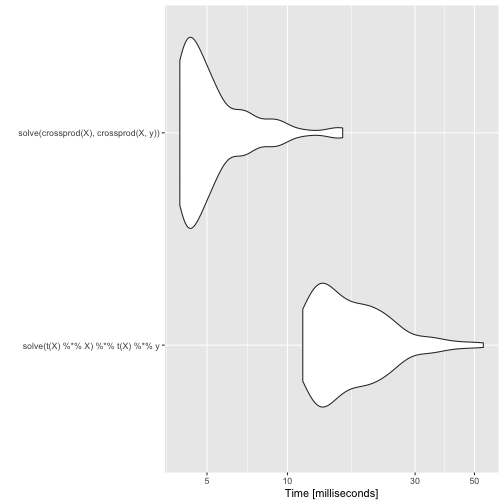
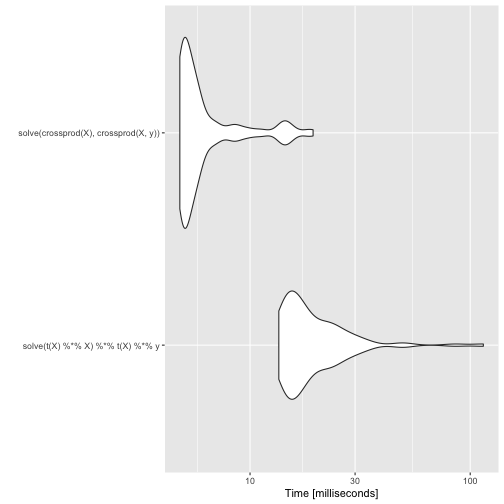
update

diff --git a/docs/lezioni/L04/LibroVsComputer.html b/docs/lezioni/L04/LibroVsComputer.html
@@ -22,12 +22,12 @@ class: center, middle, inverse, title-slide
 
 # Libro di testo vs computer
 
-* Nei libri di testo viene spesso presentata la soluzione ad un certo problema con una formula matematica. Ad esempio, si consideri la soluzione 
+Nei libri di testo viene spesso presentata la soluzione ad un certo problema con una formula matematica. Ad esempio, si consideri la soluzione 
 `$$\hat{\beta} = (X^\mathsf{T} X)^{-1}Xy$$`
 
-* Tuttavia la traduzione diretta di questo tipo di formule in codice non è sempre consigliabile perché ci sono molti aspetti problematici dei computer che semplicemente non sono rilevanti quando si scrivono le cose su carta
+Tuttavia la traduzione diretta di questo tipo di formule in codice non è sempre consigliabile perché ci sono molti aspetti problematici dei computer che semplicemente non sono rilevanti quando si scrivono le cose su carta
 
-* I potenziali problemi computazionali che possono emergere sono
+I potenziali problemi computazionali che possono emergere sono
 
 1. **Overflow** Quando i numeri diventano troppo grandi, non possono essere rappresentati su un computer e quindi spesso vengono prodotte NA
 
@@ -39,21 +39,20 @@ class: center, middle, inverse, title-slide
 
 # La stima di `\(\beta\)`
 
-* Si consideri la soluzione 
+Si consideri la soluzione 
 `$$\hat{\beta} = (X^\mathsf{T} X)^{-1}Xy$$`
 
-* Questa soluzione può essere tradotta in codice R come
-
+Questa soluzione può essere tradotta in codice R come
 
 ```r
 betahat &lt;- solve(t(X) %*% X) %*% t(X) %*% y
 ```
 
-* Tuttavia non è consigliabile calcolare il valore di `\(\hat{\beta}\)` in questo modo
+Tuttavia non è consigliabile calcolare il valore di `\(\hat{\beta}\)` in questo modo.
 
-* La ragione principale è che il calcolo dell'inversa di `\(X^\mathsf{T} X\)` è molto costoso dal punto di vista computazionale ed è un'operazione potenzialmente instabile su un computer quando c'è un'elevata collinearità tra i predittori
+La ragione principale è che il calcolo dell'inversa di `\(X^\mathsf{T} X\)` è molto costoso dal punto di vista computazionale ed è un'operazione potenzialmente instabile su un computer quando c'è un'elevata collinearità tra i predittori.
 
-* Inoltre, per calcolare `\(\hat{\beta}\)` non abbiamo bisogno dell'inversa di
+Inoltre, per calcolare `\(\hat{\beta}\)` non abbiamo bisogno dell'inversa di
 `\(X^\mathsf{T} X\)`, quindi perché calcolarla?
 
 ---
@@ -72,6 +71,7 @@ Questo approccio ha il vantaggio di essere più stabile numericamente e di esser
 
 ---
 
+# microbenchmark
 
 
 ```r
@@ -90,12 +90,12 @@ ms
 
 ```
 Unit: milliseconds
-                                 expr      min        lq      mean    median
-     solve(t(X) %*% X) %*% t(X) %*% y 11.40596 13.272891 18.449127 15.980200
- solve(crossprod(X), crossprod(X, y))  3.95804  4.192608  5.603482  4.710674
-        uq      max neval cld
- 20.621285 53.97933   100   b
-  5.892089 16.08123   100  a 
+                                 expr       min        lq      mean    median
+     solve(t(X) %*% X) %*% t(X) %*% y 13.513165 14.933184 21.042958 17.026827
+ solve(crossprod(X), crossprod(X, y))  4.799257  4.972295  6.719871  5.358553
+       uq       max neval cld
+ 22.71662 114.72907   100   b
+  6.42838  19.33626   100  a 
 ```
 
 ---
@@ -144,42 +144,39 @@ kappa(crossprod(W))
 
 ---
 
-# Solve 
+# solve 
 
-* Le equazioni normali 
+Le equazioni normali 
 `$$X^\mathsf{T} X \beta = X^\mathsf{T} y$$`
 rappresentano un caso particolare di un generico sistema di equazioni
 `$$A x = b$$`
 
-* La funzione `solve(A, b, ...)` risolve questo sistema di equazioni, dove `\(A\)` è una matrice quadrata e `\(b\)` può essere un vettore o una matrice
+La funzione `solve(A, b, ...)` risolve questo sistema di equazioni, dove `\(A\)` è una matrice quadrata e `\(b\)` può essere un vettore o una matrice.
 
-* Se `\(b\)` non viene specificato, allora diventa la matrice identità `\(I\)`, quindi il problema si traduce in `\(Ax = I\)`, ovvero trovare l'inversa di `\(A\)`
+Se `\(b\)` non viene specificato, allora diventa la matrice identità `\(I\)`, quindi il problema si traduce in `\(Ax = I\)`, ovvero trovare l'inversa di `\(A\)`.
 
 ---
 
 # La decomposizione di Cholesky
 
-* Poichè nel nostro caso la matrice `\(A= X^\mathsf{T}X\)` è simmetrica, e se `\(X\)` è a rango pieno, è anche definita positiva, allora possiamo considerare la decomposizione di Cholesky
+Poichè nel nostro caso la matrice `\(A= X^\mathsf{T}X\)` è simmetrica, e se `\(X\)` è a rango pieno, è anche definita positiva, allora possiamo considerare la decomposizione di Cholesky
 `$$A = L L^\mathsf{T}$$`
-dove `\(L\)` è una matrice triangolare inferiore 
+dove `\(L\)` è una matrice triangolare inferiore.
 
-* Con questa decomposizione possiamo scrivere 
-$$
-`\begin{aligned}
-L L^\mathsf{T} x= b\\
-L z = b
-\end{aligned}`
-$$
-dove `\(z = L^\mathsf{T} x\)` è la nuova incognita
+Con questa decomposizione possiamo scrivere 
+`\begin{align}
+L L^\mathsf{T} x &amp;= b \\
+L z &amp;= b
+\end{align}`
+dove `\(z = L^\mathsf{T} x\)` è la nuova incognita.
 
-* Quando nel generico sistema di equazioni `\(Ax = b\)` la matrice `\(A\)` è triangolare inferiore (superiore), si può applicare l'algoritmo di *forwardsolve* (*backsolve*)
+Quando nel generico sistema di equazioni `\(Ax = b\)` la matrice `\(A\)` è triangolare inferiore (superiore), si può applicare l'algoritmo di sostituzione in avanti, denominato *forwardsolve* (l'algoritmo di sostituzione in indietro, denominato *backsolve*).
 
 ---
 
 # Algoritmo di backsolve
 
-* Si consideri la seguente matrice triangolare superiore
-
+Si consideri la seguente matrice triangolare superiore
 `$$\left[\begin{array}{ccc}
 l_{1,1}  &amp; l_{1,2}  &amp; l_{1,3} \\ 
 0  &amp; l_{2,2}  &amp; l_{2,3} \\ 
@@ -195,41 +192,41 @@ b_{2} \\
 b_{3} \\ 
 \end{array}\right]$$`
 
-* Dall'ultima riga (equazione) risulta
+Dall'ultima riga (equazione) risulta
 `$$z_{3} = \frac{b_3}{l_{3,3}}$$`
 
-* La seconda riga (equazione) coinvolge solamente `\(z_2\)` e `\(z_3\)`, quindi 
+La seconda riga (equazione) coinvolge solamente `\(z_2\)` e `\(z_3\)`, quindi 
 `$$z_2 = \frac{b_2}{l_{2,2}} - \frac{l_{2,3} z_3}{l_{2,2}}$$`
 
-* Infine 
+Infine 
 `$$z_{1} = \frac{b_1}{l_{1,1}} - \frac{l_{1,2} z_2}{l_{1,1}} - \frac{l_{1,3} z_3}{l_{1,1}}$$`
 
 ---
 
-* L'algoritmo di *forwardsolve* utilizza sostanzialmente la stessa tecnica per matrici triangolari inferiori
+# Forwardsolve e backsolve
 
-* Possiamo quindi scrivere 
-$$
-\begin{aligned} X^\mathsf{T}X x = X^\mathsf{T} y\\
-L L^\mathsf{T} x = b\\
-L z = b
-\end{aligned}`
-$$
+L'algoritmo di *forwardsolve* utilizza sostanzialmente la stessa tecnica per matrici triangolari inferiori. Per il nostro problema, possiamo scrivere
+`\begin{align}
+X^\mathsf{T} X x &amp;= X^\mathsf{T} y \\
+L L^\mathsf{T} x &amp;= b \\
+L z &amp;= b
+\end{align}`
  
-
-* Prima si risolve `\(L z = b\)` con
+Prima si risolve `\(L z = b\)` con
 
 ```r
 forwardsolve(L, b)
 ```
 
-* Poi si risolve `\(L^\mathsf{T}x  = z\)` con 
+Poi si risolve `\(L^\mathsf{T}x  = z\)` con 
 
 ```r
 backsolve(t(L), forwardsolve(L, b))
 ```
 
 ---
+
+# ols_chol
 
 
 ```r
@@ -251,7 +248,6 @@ betahat &lt;- backsolve(t(L), forwardsolve(L, Xty))
 betahat
 }
 ```
-
 
 ---
 
@@ -290,9 +286,9 @@ coef(lm(y ~ X - 1))
 
 # La decomposizione QR
 
-* La funzione `lm` adotta un approccio diverso: utilizza la decomposizione QR, che non è così veloce, ma ha l'ulteriore vantaggio di essere in grado di rilevare e gestire automaticamente le colonne collineari
+La funzione `lm` adotta un approccio diverso: utilizza la decomposizione QR, che non è così veloce, ma ha l'ulteriore vantaggio di essere in grado di rilevare e gestire automaticamente le colonne linearmente dipendenti.
 
-* La decomposizione QR (ridotta) prevede
+La decomposizione QR (ridotta) prevede
 `$$\underset{n \times p}{X} = \underset{n \times p}{Q}\underset{p \times p}{R}$$`
 dove `\(Q\)` è una matrice ortogonale tale che `\(Q^\mathsf{T} Q = I\)`, ed `\(R\)` è una matrice triangolare superiore, quindi
 $$
@@ -304,9 +300,11 @@ R^\mathsf{T} R = R^\mathsf{T} Q^\mathsf{T} y\\
 \end{aligned}`
 $$
 
-* Possiamo quindi risolvere il sistema con l'algoritmo *backsolve* senza dover calcolare `\(X^\mathsf{T} X\)`, che potrebbe risultare numericamente instabile
+Possiamo quindi risolvere il sistema con l'algoritmo *backsolve* senza dover calcolare `\(X^\mathsf{T} X\)`, che potrebbe risultare numericamente instabile.
 
 ---
+
+# ols_qr
 
 
 ```r
@@ -358,7 +356,7 @@ coef(lm(y ~ X - 1))
 
 ---
 
-# Esempio giocattolo
+# Un semplice esempio
 
 Si consideri il seguente esempio giocattolo con `\(n=p=2\)`. Sia 
 `$$X = \left[\begin{array}{cc}
@@ -493,9 +491,10 @@ autoplot(ms)
 
 # lm
 
-* La funzione `lm` utilizza la decomposizione QR (programmata in C e richiamata dalla funzione)
+La funzione `lm` utilizza la decomposizione QR (programmata in C e richiamata dalla funzione).
 
-* Si noti che `lm` gestisce situazioni di colonne (computazionalmente) linearmente dipendenti
+
+Si noti che `lm` gestisce situazioni di colonne (computazionalmente) linearmente dipendenti
 
 ```r
 qr(W)$rank
@@ -516,7 +515,9 @@ tail(coef(fit))
 ```
 dove l'ultimo elemento di `\(\hat{\beta}\)` è NA perché un coefficiente corrispondente all'ultima colonna di `\(W\)` (la colonna linearmente dipendente). 
 
-* Sebbene la decomposizione QR gestisca senza messaggio di errore la matrice `\(X\)` con colonne (computazionalmente o esattamente) linearmente dipendenti, paghiamo un prezzo in termini di velocità, che può essere ridotta utilizzando `lm.fit` e `.lm.fit` se siamo solo interessati alla stima di `\(\beta\)`. In alcune situazioni però potrebbe essere più efficente ricorrere ad un approccio alternativo
+
+
+Sebbene la decomposizione QR gestisca senza messaggio di errore la matrice `\(X\)` con colonne (computazionalmente o esattamente) linearmente dipendenti, paghiamo un prezzo in termini di velocità, che può essere ridotta utilizzando `lm.fit` e `.lm.fit` se siamo solo interessati alla stima di `\(\beta\)`. In alcune situazioni però potrebbe essere più efficente ricorrere ad un approccio alternativo
 
 ---
 
